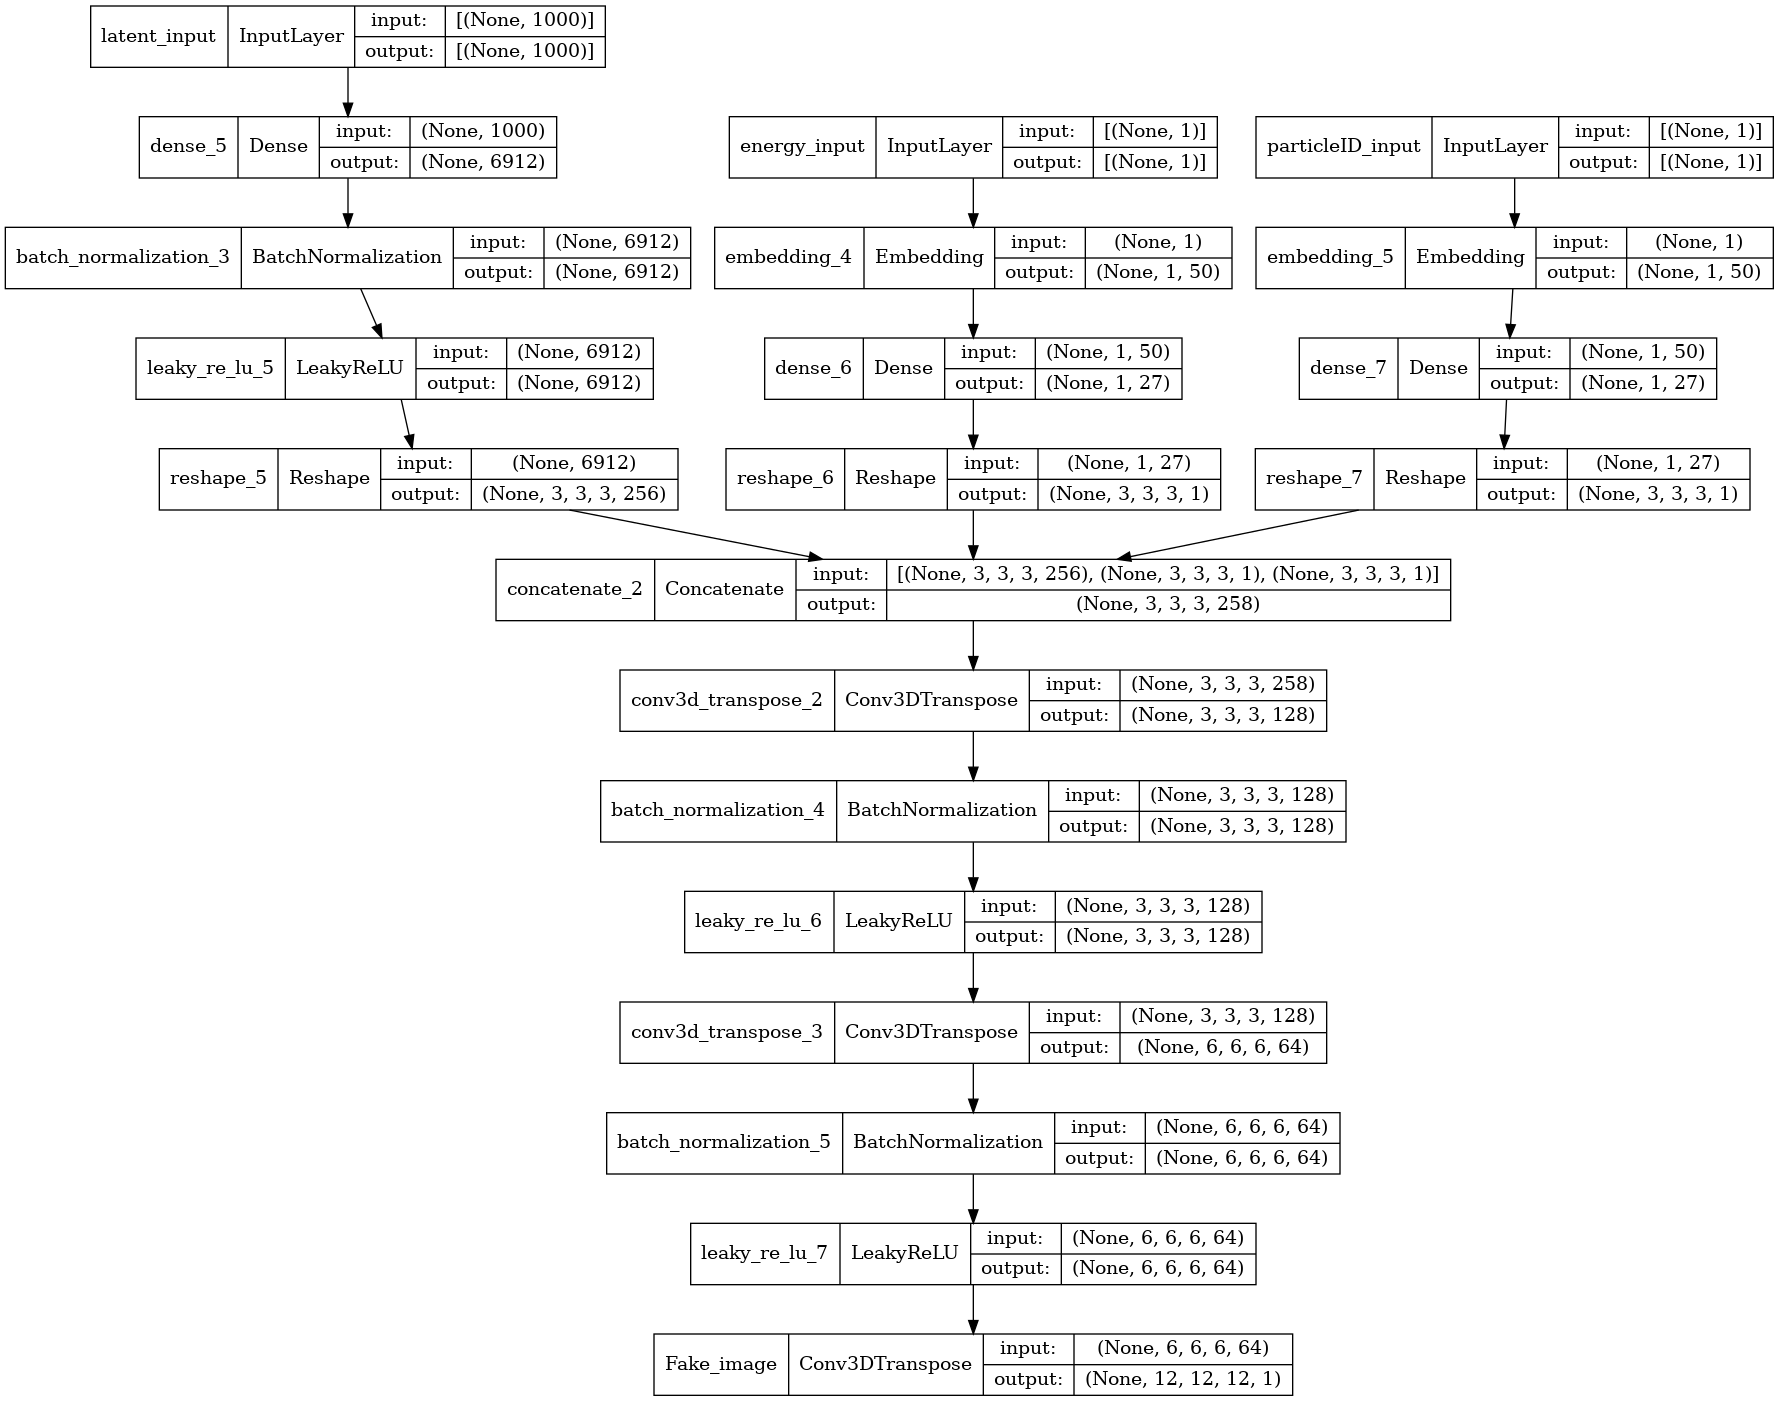
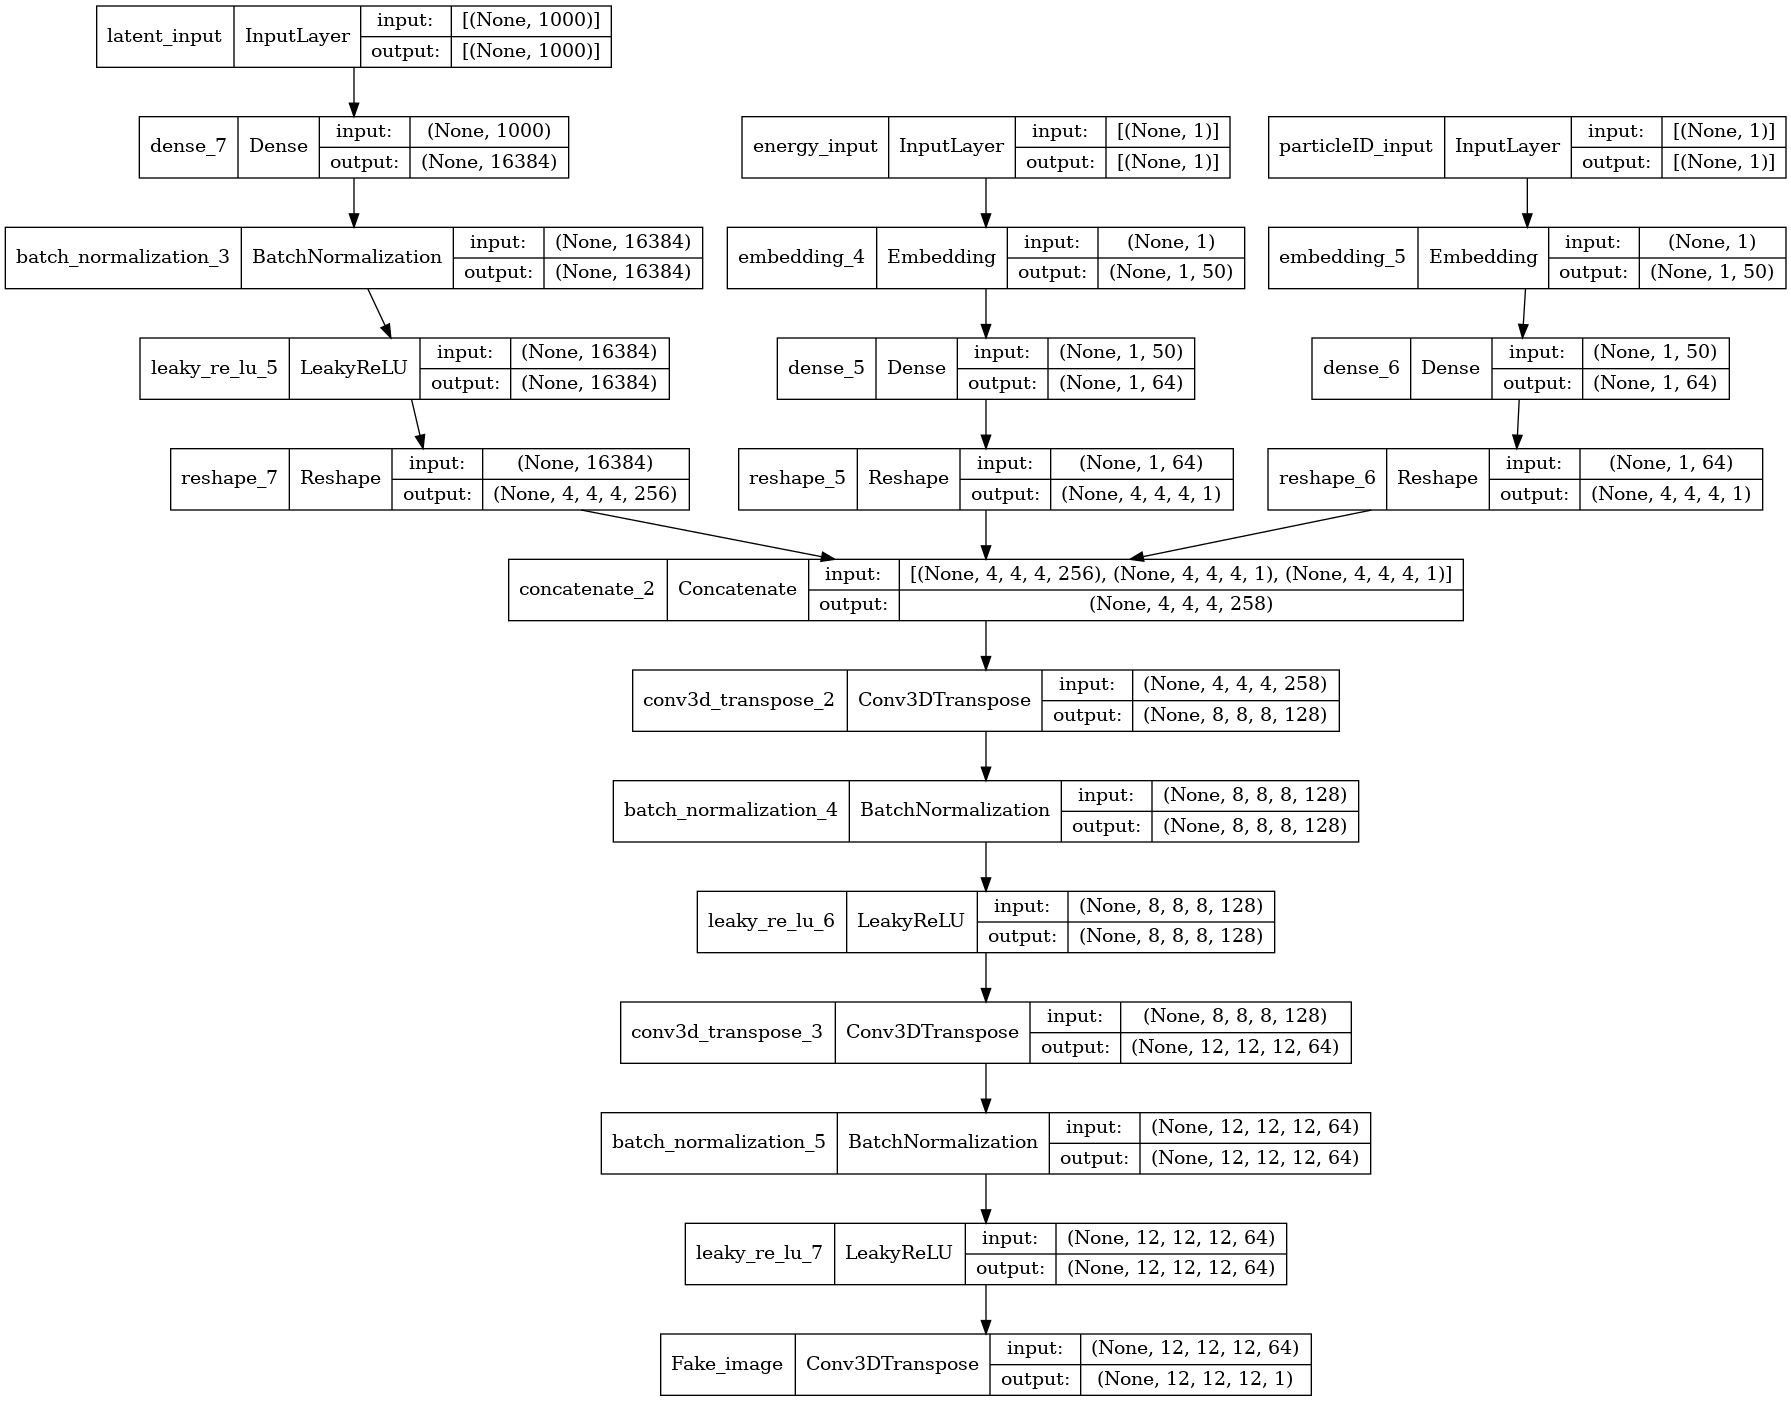
train_GAN generator and discriminator topology updated

diff --git a/EM_shower_simulator/train_GAN.py b/EM_shower_simulator/train_GAN.py
@@ -47,8 +47,6 @@ data_path = os.path.join("dataset","filtered_data","data_MVA.root")
 DPATH = os.path.join("..", data_path)
 
 #Configuration of the dataset structure
-MBSTD_GROUP_SIZE = 4                      #minibatch dimension
-                                          #for minibatch discrimination
 BATCH_SIZE = 100
 BUFFER_SIZE = 1000
 N_CLASSES_PID = 3
@@ -58,7 +56,6 @@ GEOMETRY = (12, 12, 12, 1)
 #Configuration of the cGAN structure
 EPOCHS = 1
 L_RATE = 3e-4
-EMBED_DIM = 50
 NOISE_DIM = 1000
 DEFAULT_D_OPTIM = tf.keras.optimizers.Adam(L_RATE)
 DEFAULT_G_OPTIM = tf.keras.optimizers.Adam(L_RATE)
@@ -208,8 +205,15 @@ def make_generator_model():
     layer that creates a sort of lookup-table (vector[EMBED_DIM] of floats) that
     categorizes the labels in N_CLASSES_* classes.
     """
-    n_nodes = 4
-    for cell in GEOMETRY:
+    N_FILTER = 64
+    EMBED_DIM = 50
+    KERNEL = (5, 5, 5)
+    input_shape = (4, 4, 4, 1)
+    image_shape = (4, 4, 4, 4*N_FILTER)
+    #Note 4 + (KERNEL-1)*3 = GEOMETRY!
+
+    n_nodes = 1
+    for cell in input_shape:
         n_nodes = n_nodes * cell
 
     # Energy label input
@@ -217,47 +221,48 @@ def make_generator_model():
     # embedding for categorical input
     li_en = Embedding(N_CLASSES_EN, EMBED_DIM)(en_label)
     # linear multiplication
-    n_nodes = 3 * 3 * 3
     li_en = Dense(n_nodes)(li_en)
     # reshape to additional channel
-    li_en = Reshape((3, 3, 3, 1))(li_en)
-    assert li_en.get_shape().as_list() == [None, 3, 3, 3, 1]
-
-    # Image generator input
-    in_lat = Input(shape=(NOISE_DIM,), name="latent_input")
-    gen = Dense(n_nodes, use_bias=False)(in_lat)
-    gen = BatchNormalization()(gen)
-    gen = LeakyReLU(alpha=0.2)(gen)
-    gen = Reshape((3, 3, 3, 256))(gen)
-    assert gen.get_shape().as_list() == [None, 3, 3, 3, 256]
+    li_en = Reshape(input_shape)(li_en)
 
     # ParticleID label input
     pid_label = Input(shape=(1,), name="particleID_input")
     # embedding for categorical input
     li_pid = Embedding(N_CLASSES_PID, EMBED_DIM)(pid_label)
     # linear multiplication
-    n_nodes = 3 * 3 * 3
     li_pid = Dense(n_nodes)(li_pid)
     # reshape to additional channel
-    li_pid = Reshape((3, 3, 3, 1))(li_pid)
-    assert li_pid.get_shape().as_list() == [None, 3, 3, 3, 1]
+    li_pid = Reshape(input_shape)(li_pid)
+
+    n_nodes = 1
+    for cell in image_shape:
+        n_nodes = n_nodes * cell
+
+    # Image generator input
+    in_lat = Input(shape=(NOISE_DIM,), name="latent_input")
+    gen = Dense(n_nodes, use_bias=False)(in_lat)
+    gen = BatchNormalization()(gen)
+    gen = LeakyReLU(alpha=0.2)(gen)
+    gen = Reshape(image_shape)(gen)
 
     # merge image gen and label input
     merge = Concatenate()([gen, li_en, li_pid])
 
-    gen = Conv3DTranspose(128, (5, 5, 5), strides=(1, 1, 1), padding="same", use_bias=False)(merge)
-    assert gen.get_shape().as_list() == [None, 3, 3, 3, 128]
+    gen = Conv3DTranspose(2*N_FILTER, KERNEL, use_bias=False)(merge)
+    logger.info(gen.get_shape())
     gen = BatchNormalization()(gen)
     gen = LeakyReLU(alpha=0.2)(gen)
 
-    gen = Conv3DTranspose(64, (5, 5, 5), strides=(2, 2, 2), padding="same", use_bias=False)(gen)
-    assert gen.get_shape().as_list() == [None, 6, 6, 6, 64]
+    gen = Conv3DTranspose(N_FILTER, KERNEL, use_bias=False)(gen)
+    logger.info(gen.get_shape())
     gen = BatchNormalization()(gen)
     gen = LeakyReLU(alpha=0.2)(gen)
 
-    output = (Conv3DTranspose(1, (5, 5, 5), strides=(2, 2, 2), use_bias=False,
+    output = (Conv3DTranspose(1, KERNEL, use_bias=False,
                     padding="same", activation="tanh", name="Fake_image")(gen))
-    assert output.get_shape().as_list() == [None, *GEOMETRY]
+    logger.info(f"Shape of the generator output: {output.get_shape()}")
+    error = "ERROR building the generator: shape different from geometry!"
+    assert output.get_shape().as_list()==[None, *GEOMETRY], error
 
     model = Model([in_lat, en_label, pid_label], output, name='generator')
     return model
@@ -292,6 +297,11 @@ def make_discriminator_model():
     layer that creates a sort of lookup-table (vector[EMBED_DIM] of floats) that
     categorizes the labels in N_CLASSES_* classes.
     """
+    N_FILTER = 32
+    EMBED_DIM = 50
+    KERNEL = (4, 4, 4)
+    MBSTD_GROUP_SIZE = 4                      #minibatch dimension
+                                              #for minibatch discrimination
     n_nodes = 1
     for cell in GEOMETRY:
         n_nodes = n_nodes * cell
@@ -321,22 +331,25 @@ def make_discriminator_model():
     merge = Concatenate()([in_image, li_en, li_pid])
     logger.info(merge.get_shape())
 
-    #padding="same" add a 0 to left and right
+    #padding="same" add a 0 to left and right, "valid" use only available data
     #output of convolution = (input+2padding-kernel)/strides + 1
-    discr = Conv3D(32, (5, 5, 5), strides=(1, 1, 1), padding="valid")(merge)
+
+    discr = Conv3D(N_FILTER, KERNEL, strides=(1, 1, 1))(merge)
     logger.info(discr.get_shape())
     discr = LeakyReLU()(discr)
     discr = Dropout(0.3)(discr)
 
-    discr = Conv3D(64, (4, 4, 4), strides=(2, 2, 2), padding="valid")(discr)
+    discr = Conv3D(2 * N_FILTER, KERNEL, strides=(2, 2, 2))(discr)
     logger.info(discr.get_shape())
     discr = LeakyReLU()(discr)
     discr = Dropout(0.3)(discr)
 
     #===========================================================================
     #minibatch discrimination layer : important to avoid mode collapse
-    minibatch = minibatch_stddev_layer(discr, MBSTD_GROUP_SIZE)
-    discr = Conv3D(64, (4, 3, 3), strides=(2, 2, 2), padding="valid")(minibatch)
+    #minibatch = minibatch_stddev_layer(discr, MBSTD_GROUP_SIZE)
+    #logger.info(minibatch.get_shape())
+    #discr = Conv3D(2 * N_FILTER, (4, 3, 3), strides=(2, 2, 2))(minibatch)
+    #logger.info(discr.get_shape())
     #===========================================================================
 
     discr = Flatten()(discr)
@@ -360,6 +373,7 @@ def debug_discriminator(images):
     logger.info("Start debugging discriminator model.")
     discriminator = make_discriminator_model()
     images = images[0:num_examples_to_generate]
+    logger.info(f"Shape of images: {images.shape}")
     en_label = tf.random.uniform([num_examples_to_generate, 1], minval= 0.,
                                 maxval=N_CLASSES_EN),
     pid_label = tf.random.uniform([num_examples_to_generate, 1], minval= 0.,
@@ -526,8 +540,8 @@ def debug(path=DPATH, verbose=VERBOSE):
     if verbose :
         #Execute debug subroutines
         debug_shower(train_images, num_examples_to_generate)
-        #debug_generator(test_noise)
-        #debug_discriminator(train_images)
+        debug_generator(test_noise)
+        debug_discriminator(train_images)
 
 def train_cgan(path=DPATH, verbose=VERBOSE):
 

diff --git a/EM_shower_simulator/custom_minibatch.py b/EM_shower_simulator/custom_minibatch.py
@@ -7,7 +7,7 @@ Taken from https://github.com/tkarras/progressive_growing_of_gans/blob/master/ne
 # Minibatch standard deviation.
 
 def minibatch_stddev_layer(x, group_size=4):
-    with tf.variable_scope('MinibatchStddev'):
+    with tf.compat.v1.variable_scope('MinibatchStddev'):
         group_size = tf.minimum(group_size, tf.shape(x)[0])           # Minibatch must be divisible by (or smaller than) group_size.
         s = x.shape                                                   # [NCHW]  Input shape.
         y = tf.reshape(x, [group_size, -1, s[1], s[2], s[3], s[4]])   # [GMCHW] Split minibatch into M groups of size G.
